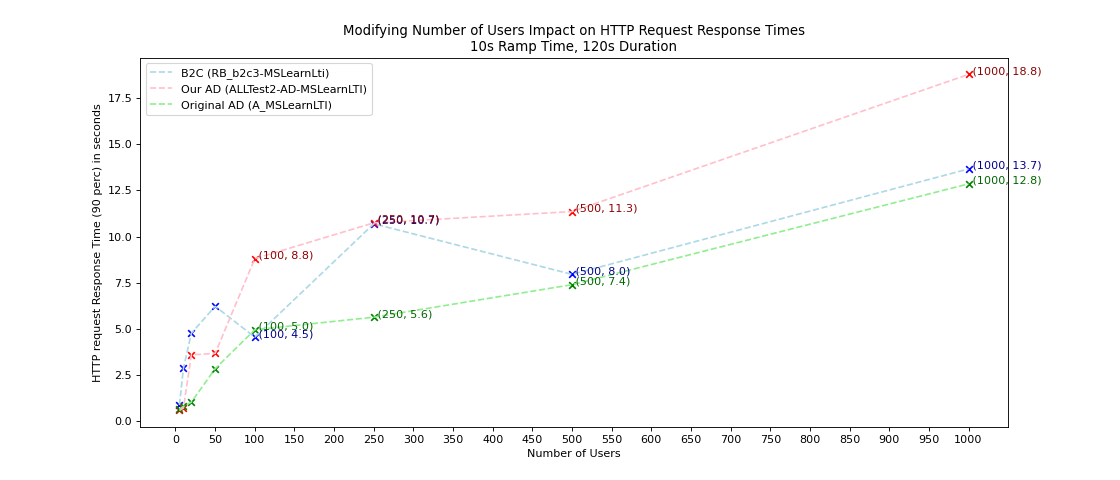
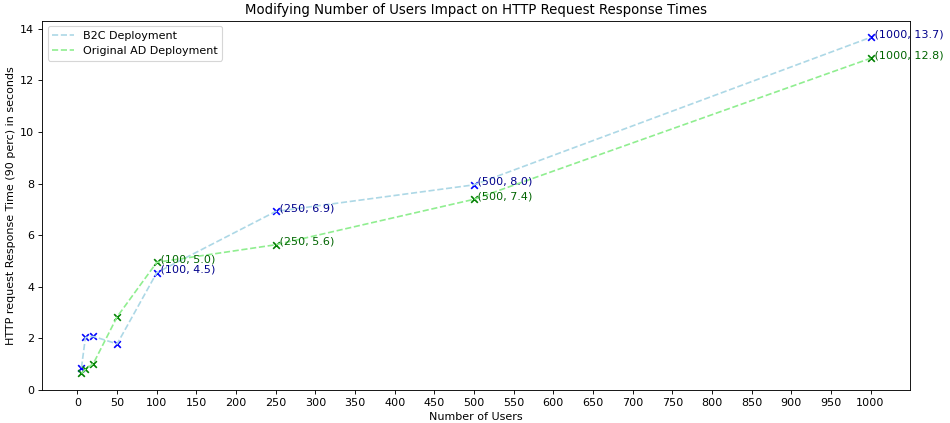
Final deploy diagrams

diff --git a/__LoadDiagrams/diagrams.py b/__LoadDiagrams/diagrams.py
@@ -10,8 +10,8 @@ def drawDiagram(xAxis1, yAxis1, xAxis2, yAxis2, xAxis3, yAxis3, xLabel, yLabel, 
     plt.scatter(xAxis1, yAxis1, c='blue', marker="x")
     # plt.text(800, min(yAxis1+yAxis2+yAxis3)+(max(yAxis1+yAxis2+yAxis3)-min(yAxis1+yAxis2+yAxis3))*0.7, "Our B2C did not fail", color="blue")
 
-    plt.plot(xAxis2, yAxis2, linestyle='--', c='pink', label=yLegend2)
-    plt.scatter(xAxis2, yAxis2, c='red', marker="x")
+    # plt.plot(xAxis2, yAxis2, linestyle='--', c='pink', label=yLegend2)
+    # plt.scatter(xAxis2, yAxis2, c='red', marker="x")
     # plt.text(800, min(yAxis1+yAxis2+yAxis3)+(max(yAxis1+yAxis2+yAxis3)-min(yAxis1+yAxis2+yAxis3))*0.45, "Our AD does not fail", color="red")
 
     plt.plot(xAxis3, yAxis3, linestyle='--', c='lightgreen', label=yLegend3)
@@ -21,9 +21,9 @@ def drawDiagram(xAxis1, yAxis1, xAxis2, yAxis2, xAxis3, yAxis3, xLabel, yLabel, 
     for xy in zip(xAxis1, yAxis1):
         if(xy[0]>=100):
             plt.annotate(' (%d, %.1f)' % xy, xy=xy, color='darkblue')
-    for xy in zip(xAxis2, yAxis2):
-        if(xy[0]>=100):
-            plt.annotate(' (%d, %.1f)' % xy, xy=xy, color='darkred')
+    # for xy in zip(xAxis2, yAxis2):
+    #     # if(xy[0]>=100):
+    #     #     plt.annotate(' (%d, %.1f)' % xy, xy=xy, color='darkred')
     for xy in zip(xAxis3, yAxis3):
         if(xy[0]>=100):
             plt.annotate(' (%d, %.1f)' % xy, xy=xy, color='darkgreen')
@@ -56,13 +56,13 @@ def drawDiagram(xAxis1, yAxis1, xAxis2, yAxis2, xAxis3, yAxis3, xLabel, yLabel, 
 xLabel = "Number of Users"
 
 # region "Diagram : request reponse times"
-Title = "Modifying Number of Users Impact on HTTP Request Response Times\n10s Ramp Time, 120s Duration"
+Title = "Modifying Number of Users Impact on HTTP Request Response Times"#\n10s Ramp Time, 120s Duration"
 yLabel = "HTTP request Response Time (90 perc) in seconds"
 
 
 # b2c = RB_b2c3-MSLearnLti
 xAxis1 = [5,10,20,50,100,250, 500,1000] # number of users
-yAxis1 = [0.87075, 2.86, 4.76, 6.22, 4.55,10.69, 7.95,13.66] # HTTP Request Percentile 90th
+yAxis1 = [0.87075, 2.04, 2.08, 1.79, 4.55,6.92, 7.95,13.66] # HTTP Request Percentile 90th
 # our AD = ALLTest2-AD-MSLearnLTI
 xAxis2 = [5,10,20,50,100,250,500,1000] # number of users
 yAxis2 = [0.582, 0.70933, 3.59, 3.67, 8.8,10.74, 11.35, 18.78]
@@ -71,13 +71,16 @@ xAxis3 = [5, 10, 20, 50, 100, 250, 500,1000] # number of users
 yAxis3 = [0.6475, 0.80075, 1.03, 2.84, 4.95, 5.63, 7.39, 12.85]
 
 
-drawDiagram(xAxis1, yAxis1, xAxis2, yAxis2, xAxis3, yAxis3, xLabel, yLabel, Title, "UserImpactOnResponseTimes", "B2C (RB_b2c3-MSLearnLti)", "Our AD (ALLTest2-AD-MSLearnLTI)", "Original AD (A_MSLearnLTI)")
+#B2C = (RB_b2c3-MSLearnLti)
+#Our AD = (ALLTest2-AD-MSLearnLTI)
+#Original AD = (A_MSLearnLTI)
+drawDiagram(xAxis1, yAxis1, xAxis2, yAxis2, xAxis3, yAxis3, xLabel, yLabel, Title, "UserImpactOnResponseTimes", "B2C Deployment", "Our AD Deployment", "Original AD Deployment")
 #endregion
 
 
 #region "Diagram 2 : memory"
-Title = "Modifying Number of Users Impact on Memory Usage\n10s Ramp Time, 120s Duration"
-yLabel = "Memory Usage Percentage"
+Title = "Modifying Number of Users Impact on Memory Usage"#\n10s Ramp Time, 120s Duration"
+yLabel = "Memory Usage Percentage (%)"
 
 
 # b2c = RB_b2c3-MSLearnLti
@@ -89,7 +92,7 @@ yAxis3 = [7.06, 7.38, 7.45, 7.54, 8.23, 8.02, 9.38, 10.68]
 
 
 # uncommented for now as we don't care about memory consumption
-# drawDiagram(xAxis1, yAxis1, xAxis2, yAxis2, xAxis3, yAxis3, xLabel, yLabel, Title, "UserImpactOnMemory", "B2C (RB_b2c3-MSLearnLti)", "Our AD (ALLTest2-AD-MSLearnLTI)", "Original AD (A_MSLearnLTI)")
+drawDiagram(xAxis1, yAxis1, xAxis2, yAxis2, xAxis3, yAxis3, xLabel, yLabel, Title, "UserImpactOnMemory", "B2C (RB_b2c3-MSLearnLti)", "Our AD (ALLTest2-AD-MSLearnLTI)", "Original AD (A_MSLearnLTI)")
 
 
 #endregion 
